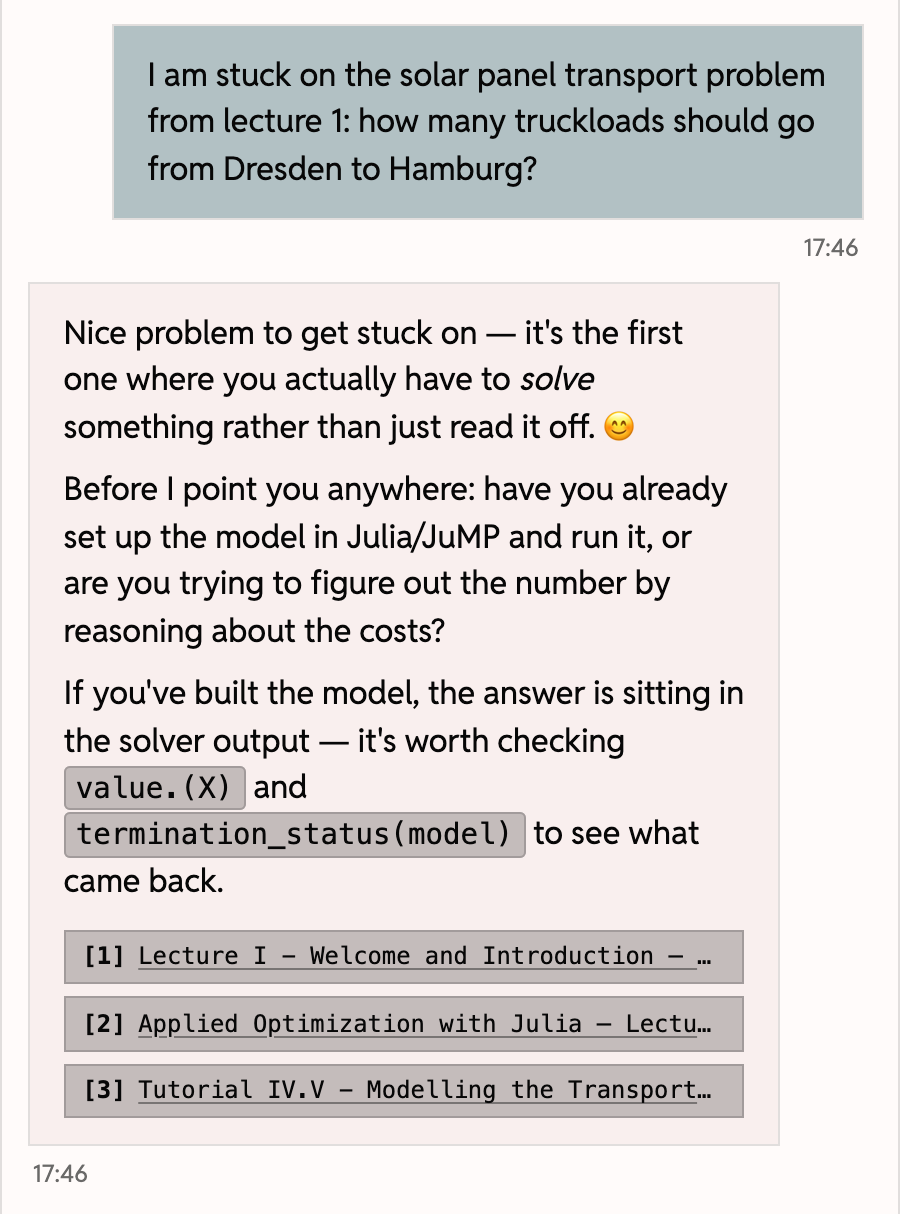
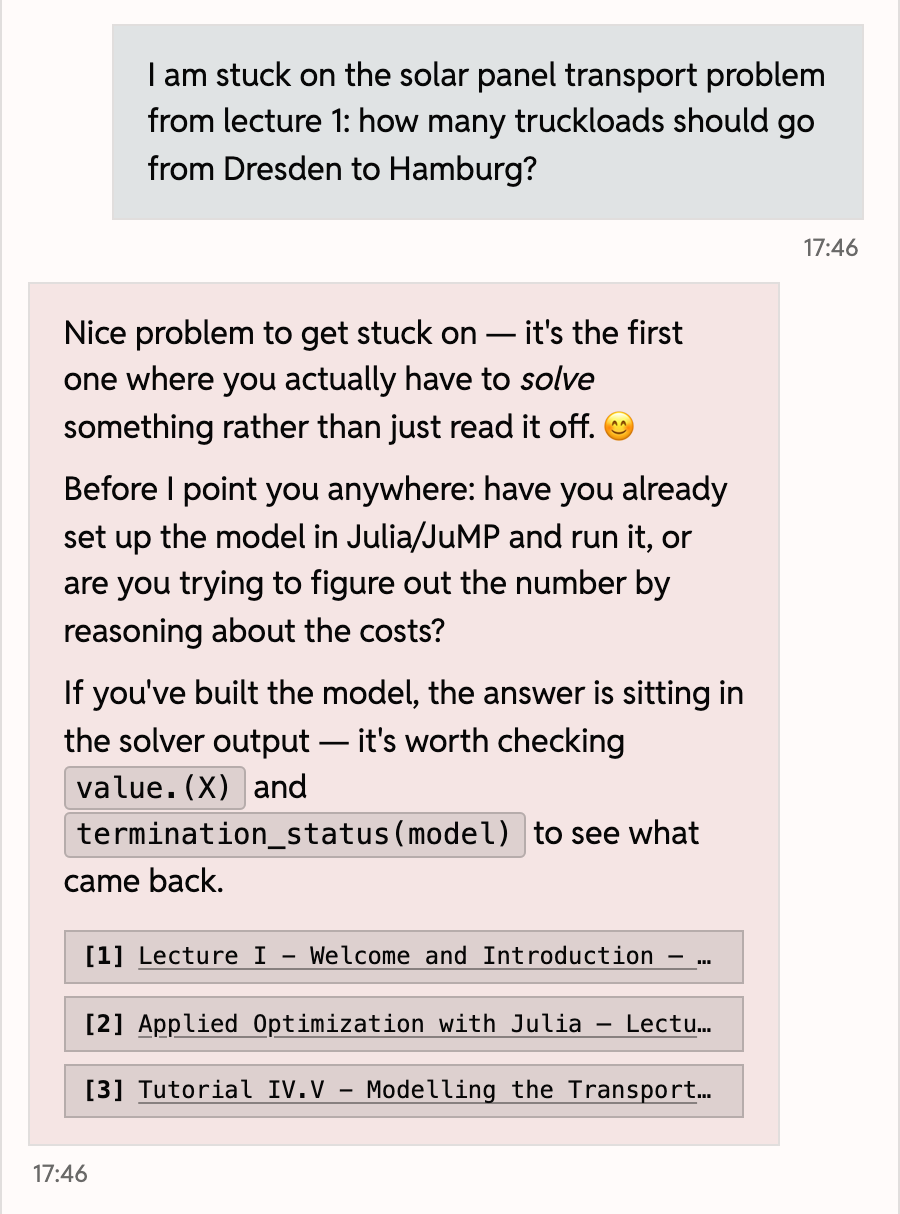
added chatbot slides

Changed region(s): [[0.1244, 0.0, 0.9644, 0.1829], [0.0622, 0.7619, 0.84, 0.9448], [0.0622, 0.6096, 0.5911, 0.7315]]

diff --git a/README.md b/README.md
@@ -23,7 +23,6 @@ The course covers applied optimization methods with hands-on tutorials and real-
 - **`general/`** - General course information and resources
 
 - **`chatbot/`** - Introduction of the course chatbot (slide deck and reading page, no PDF)
-  - Not in the render list until the `#go-live# ` markers in `_quarto.yml` are removed
   - `_survey.qmd` is the start-of-course survey, included while it is open
 
 ### Technical Directories
